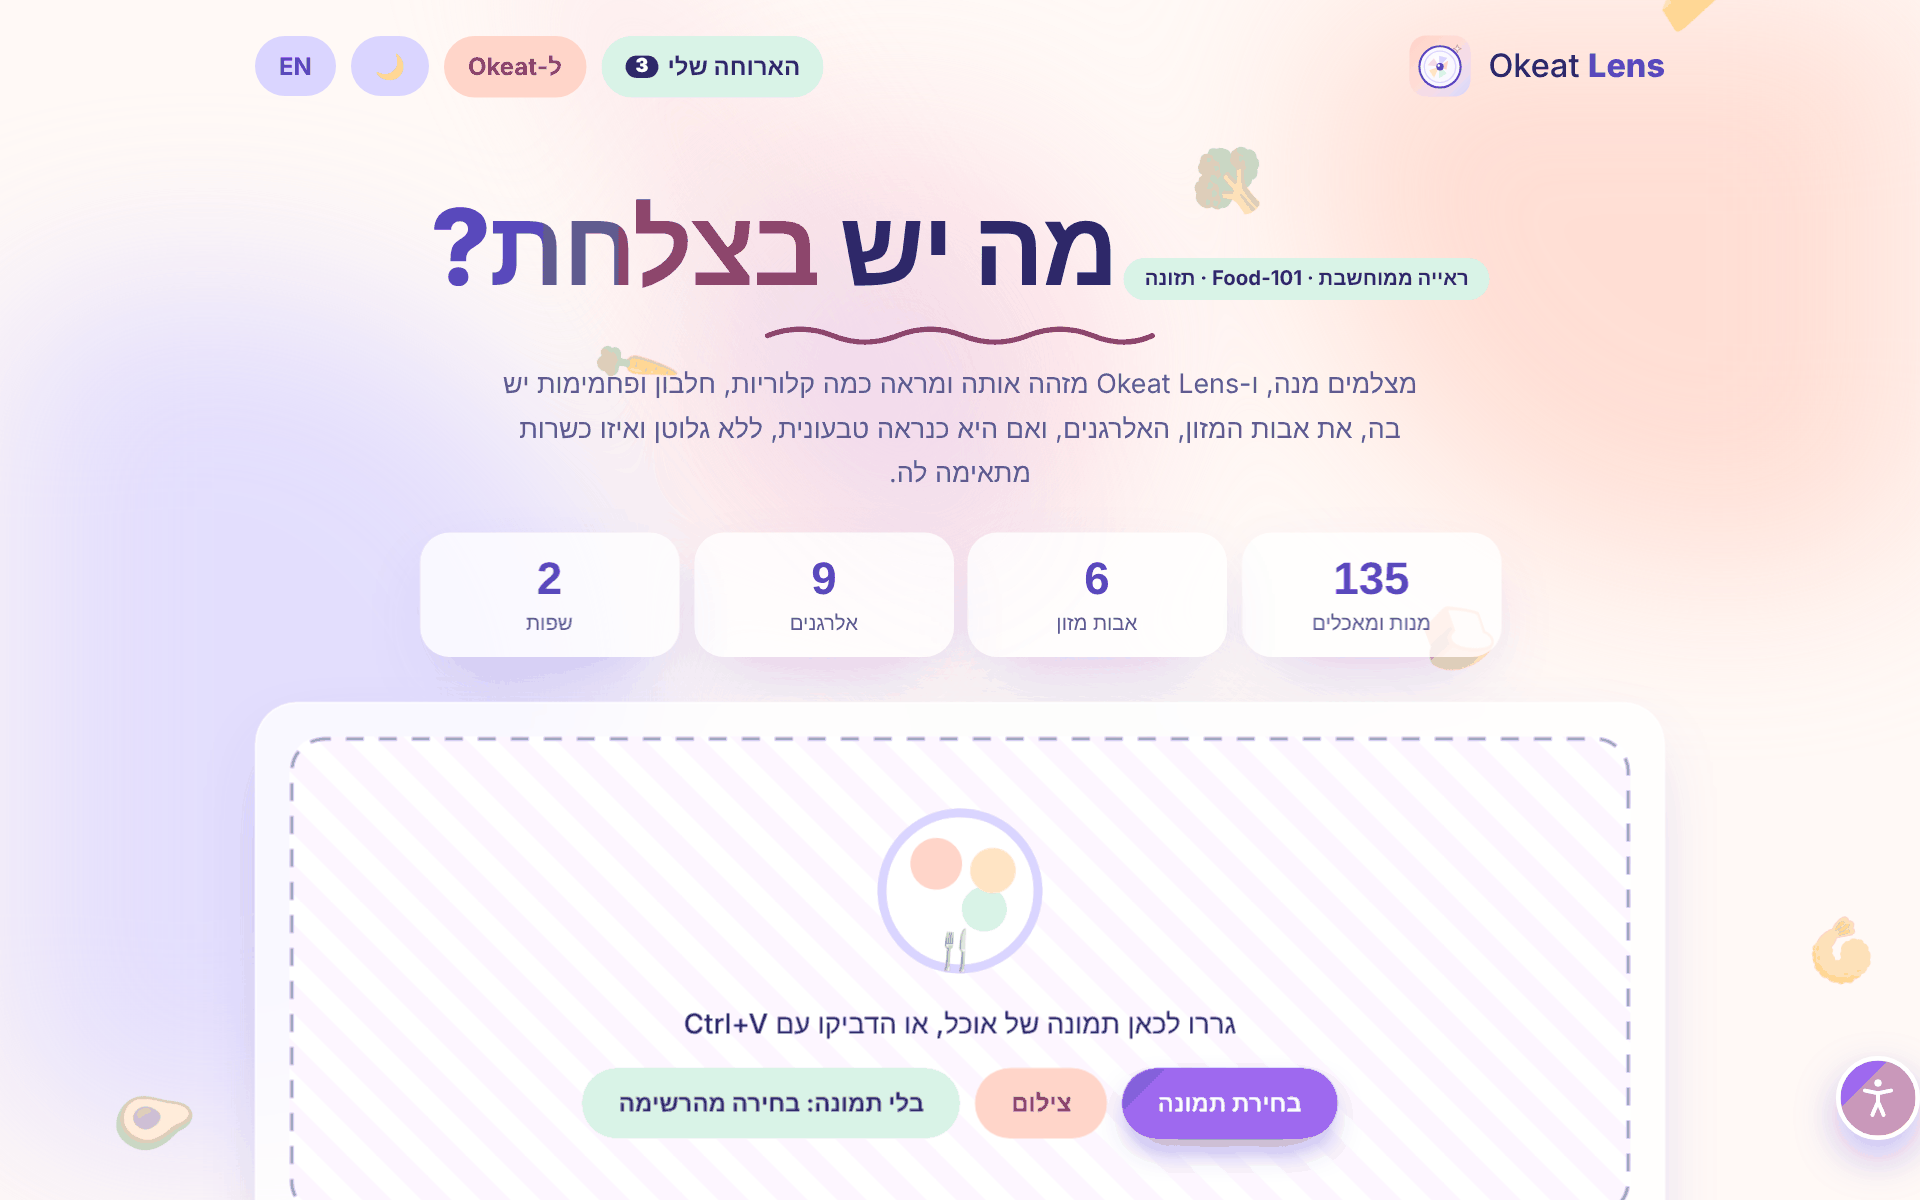
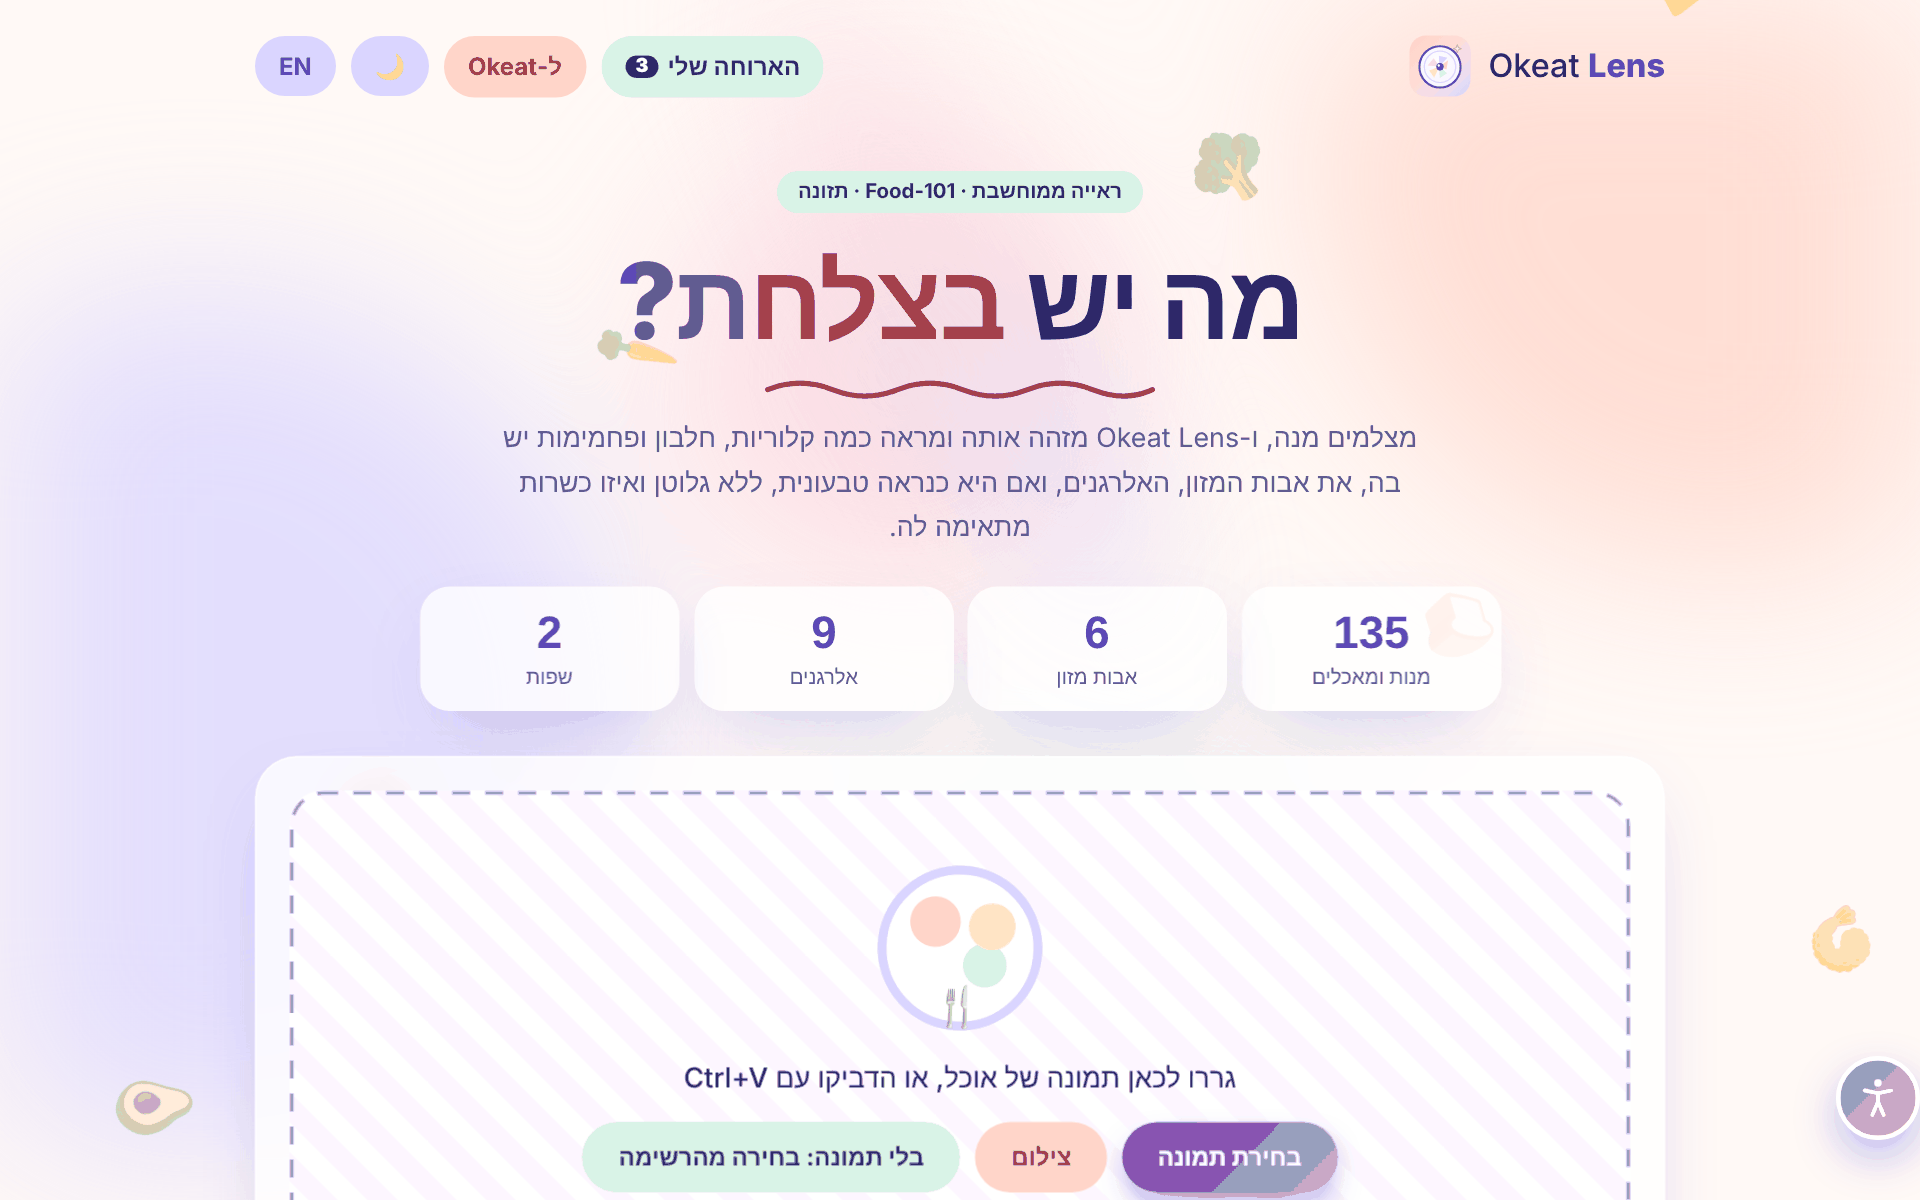
Make every button useful: surprise me, Okeat filters, share meal

diff --git a/app.js b/app.js
@@ -12,7 +12,7 @@ const I18N = {
     lead: "מצלמים מנה, ו-Okeat Lens מזהה אותה ומראה כמה קלוריות, חלבון ופחמימות יש בה, את אבות המזון, האלרגנים, ואם היא כנראה טבעונית, ללא גלוטן ואיזו כשרות מתאימה לה.",
     stDishes: "מנות ומאכלים", stFam: "אבות מזון", stAll: "אלרגנים", stUp: "שפות",
     drop: "גררו לכאן תמונה של אוכל, או הדביקו עם Ctrl+V", pick: "בחירת תמונה", camera: "צילום", browse: "בלי תמונה: בחירה מהרשימה",
-    tryOne: "או נסו דוגמה:", sPizza: "🍕 פיצה", sBurger: "🍔 המבורגר", sIce: "🍨 גלידה", sSushi: "🍣 סושי", recent: "זוהו לאחרונה:",
+    tryOne: "או נסו דוגמה:", sPizza: "🍕 פיצה", sBurger: "🍔 המבורגר", sIce: "🍨 גלידה", sSushi: "🍣 סושי", recent: "זוהו לאחרונה:", surprise: "🎲 תפתיעו אותי", shareMeal: "📤 שיתוף", copied: "הסיכום הועתק ✓", mealTxt: "הארוחה שלי ב-Okeat Lens", allergenQ: "מחפשים מנה בלי אלרגן? בחרו מנה ובדקו את האלרגנים שלה",
     itLooks: "זה נראה כמו", youPicked: "בחרתם", sure: "ביטחון", notThis: "לא זה? בחירת מנה אחרת ✏",
     portion: "כמה אכלתם?", serving: "מנה", gram: "גרם", kcal: "קלוריות",
     protein: "חלבון", carbs: "פחמימות", fat: "שומן", fiber: "סיבים", sugar: "סוכר", sodium_mg: "נתרן",
@@ -44,7 +44,7 @@ const I18N = {
     lead: "Snap a dish and Okeat Lens recognizes it, then shows its calories, protein and carbs, the six nutrient families, allergens, and whether it's likely vegan, gluten-free and which kind of kosher fits it.",
     stDishes: "dishes and foods", stFam: "nutrient families", stAll: "allergens", stUp: "languages",
     drop: "Drop a food photo here, or paste with Ctrl+V", pick: "Choose a photo", camera: "Take a photo", browse: "No photo: pick from the list",
-    tryOne: "or try one:", sPizza: "🍕 Pizza", sBurger: "🍔 Burger", sIce: "🍨 Ice cream", sSushi: "🍣 Sushi", recent: "Recently spotted:",
+    tryOne: "or try one:", sPizza: "🍕 Pizza", sBurger: "🍔 Burger", sIce: "🍨 Ice cream", sSushi: "🍣 Sushi", recent: "Recently spotted:", surprise: "🎲 Surprise me", shareMeal: "📤 Share", copied: "Summary copied ✓", mealTxt: "My meal on Okeat Lens", allergenQ: "Looking for a dish without an allergen? Pick one and check its allergens",
     itLooks: "This looks like", youPicked: "You picked", sure: "sure", notThis: "Not this? Pick another dish ✏",
     portion: "How much did you eat?", serving: "serving", gram: "g", kcal: "calories",
     protein: "Protein", carbs: "Carbs", fat: "Fat", fiber: "Fiber", sugar: "Sugar", sodium_mg: "Sodium",
@@ -252,6 +252,12 @@ function render(items, animate = true) {
 
   renderNutrition(animate);
   renderCompare();
+  const q = new URLSearchParams();
+  if (best.tags.length) q.set("diet", best.tags.join(","));
+  if (best.kosher && best.kosher !== "not_kosher") q.set("kosher", best.kosher);
+  q.set("dish", best.en);
+  $("okeatBtn").href = "https://okeat.vercel.app/map?" + q.toString();
+  $("okeatFilters").textContent = [...best.tags, best.kosher].filter((k) => k && k !== "not_kosher").map((k) => t(k)).join(" · ");
 
   const bars = $("bars");
   bars.innerHTML = "";
@@ -622,6 +628,22 @@ function setup() {
   };
   $("mealJump").onclick = () => $("meal").scrollIntoView({ behavior: "smooth", block: "start" });
   $("clearMeal").onclick = () => { meal = []; renderMeal(); };
+  $("shareMeal").onclick = async () => {
+    const tot = mealTotals();
+    const lines = meal.map((m) => `• ${nm(labels[m.key])} ×${m.p}: ${scale(labels[m.key].nutrition, m.p).kcal} kcal`);
+    const text = `${t("mealTxt")} 🍽\n${lines.join("\n")}\n= ${tot.kcal} kcal · ${t("protein")} ${fmt(tot.protein)} ${t("gram")} · ${t("carbs")} ${fmt(tot.carbs)} ${t("gram")} · ${t("fat")} ${fmt(tot.fat)} ${t("gram")}\n${location.href.split("#")[0]}`;
+    if (navigator.share) { try { await navigator.share({ text }); return; } catch (e) { if (e.name === "AbortError") return; } }
+    try { await navigator.clipboard.writeText(text); toast(t("copied")); } catch { prompt("", text); }
+  };
+  const randomDish = () => { const pool = all.filter((d) => d.key !== current?.key); choose(pool[Math.floor(Math.random() * pool.length)].key); };
+  $("diceBtn").onclick = () => { $("diceBtn").classList.remove("roll"); void $("diceBtn").offsetWidth; $("diceBtn").classList.add("roll"); randomDish(); };
+  document.querySelectorAll(".stats [data-act]").forEach((b) => (b.onclick = () => {
+    const a = b.dataset.act;
+    if (a === "browse") openPicker();
+    else if (a === "random") randomDish();
+    else if (a === "allergen") { toast(t("allergenQ")); openPicker(); }
+    else $("langBtn").click();
+  }));
   $("shareBtn").onclick = shareCard;
   $("pinBtn").onclick = () => {
     if (!current) return;
@@ -649,7 +671,7 @@ function setup() {
   window.revealAll = () => document.querySelectorAll(".rv:not(.in)").forEach((el) => rv.observe(el));
   revealAll();
   if (!reduced && matchMedia("(hover: hover)").matches) {
-    document.querySelectorAll(".upload, .stats div, .fam").forEach((el) => {
+    document.querySelectorAll(".upload, .stats button, .fam").forEach((el) => {
       el.addEventListener("pointermove", (e) => {
         const r = el.getBoundingClientRect(), x = (e.clientX - r.left) / r.width - 0.5, y = (e.clientY - r.top) / r.height - 0.5;
         el.style.setProperty("--rx", (-y * 5).toFixed(2) + "deg");

diff --git a/index.html b/index.html
@@ -37,10 +37,10 @@
       <svg class="squiggle" viewBox="0 0 300 20" aria-hidden="true"><path d="M2 12 Q 27 2 52 12 T 102 12 T 152 12 T 202 12 T 252 12 T 298 12"/></svg>
       <p class="lead" data-i18n="lead">מצלמים מנה, ו-Okeat Lens מזהה אותה ומראה כמה קלוריות, חלבון ופחמימות יש בה, את אבות המזון, האלרגנים, ואם היא כנראה טבעונית, ללא גלוטן ואיזו כשרות מתאימה לה.</p>
       <div class="stats">
-        <div><b data-count="135">0</b><span data-i18n="stDishes">מנות ומאכלים</span></div>
-        <div><b data-count="6">0</b><span data-i18n="stFam">אבות מזון</span></div>
-        <div><b data-count="9">0</b><span data-i18n="stAll">אלרגנים</span></div>
-        <div><b data-count="2">0</b><span data-i18n="stUp">שפות</span></div>
+        <button type="button" data-act="browse"><b data-count="135">0</b><span data-i18n="stDishes">מנות ומאכלים</span></button>
+        <button type="button" data-act="random"><b data-count="6">0</b><span data-i18n="stFam">אבות מזון</span></button>
+        <button type="button" data-act="allergen"><b data-count="9">0</b><span data-i18n="stAll">אלרגנים</span></button>
+        <button type="button" data-act="lang"><b data-count="2">0</b><span data-i18n="stUp">שפות</span></button>
       </div>
     </section>
 
@@ -68,6 +68,7 @@
         <button type="button" class="sample" data-src="https://images.unsplash.com/photo-1568901346375-23c9450c58cd?w=640" data-key="hamburger" data-i18n="sBurger">🍔 המבורגר</button>
         <button type="button" class="sample" data-src="https://images.unsplash.com/photo-1497034825429-c343d7c6a68f?w=640" data-key="ice_cream" data-i18n="sIce">🍨 גלידה</button>
         <button type="button" class="sample" data-src="https://images.unsplash.com/photo-1579871494447-9811cf80d66c?w=640" data-key="sushi" data-i18n="sSushi">🍣 סושי</button>
+        <button type="button" class="sample dice" id="diceBtn" data-i18n="surprise">🎲 תפתיעו אותי</button>
       </div>
       <div class="history" id="history" hidden>
         <span data-i18n="recent">זוהו לאחרונה:</span>
@@ -144,13 +145,13 @@
 
       <h3 class="sec rv" data-ic="🔮" data-i18n="topGuesses">עוד ניחושים</h3>
       <ol class="bars guesses" id="bars"></ol>
-      <a class="btn primary wide" id="okeatBtn" href="https://okeat.vercel.app/map" data-i18n="findOkeat">חיפוש מקומות ב-Okeat 🗺</a>
+      <a class="btn primary wide" id="okeatBtn" href="https://okeat.vercel.app/map" target="_blank" rel="noopener"><span data-i18n="findOkeat">חיפוש מקומות ב-Okeat 🗺</span><small id="okeatFilters"></small></a>
     </section>
 
     <section class="card meal" id="meal" hidden>
       <div class="meal-head">
         <h2 data-i18n="mealH">🍽 הארוחה שלי</h2>
-        <button class="link-btn" id="clearMeal" type="button" data-i18n="clear">ניקוי</button>
+        <div class="meal-btns"><button class="link-btn" id="shareMeal" type="button" data-i18n="shareMeal">📤 שיתוף</button><button class="link-btn" id="clearMeal" type="button" data-i18n="clear">ניקוי</button></div>
       </div>
       <ul class="meal-list" id="mealList"></ul>
       <div class="meal-total">

diff --git a/style.css b/style.css
@@ -297,3 +297,13 @@ html[data-theme="dark"] .preview{background-image:repeating-linear-gradient(45de
 .macros li{transition:transform .2s,box-shadow .2s}.macros li:hover{transform:translateY(-2px);box-shadow:0 10px 22px -14px var(--lav-d)}
 ::selection{background:var(--pink);color:var(--pink-d)}
 @media (prefers-reduced-motion:reduce){.rv{opacity:1;transform:none}.squiggle path{stroke-dashoffset:0}}
+.stats button{font:inherit;color:inherit;border:0;cursor:pointer;background:var(--card);border-radius:20px;padding:14px 8px;box-shadow:var(--shadow);animation:rise .8s both;position:relative;transform:perspective(900px) rotateX(var(--rx,0)) rotateY(var(--ry,0));transition:transform .25s ease-out,box-shadow .3s}
+.stats button:nth-child(2){animation-delay:.08s}.stats button:nth-child(3){animation-delay:.16s}.stats button:nth-child(4){animation-delay:.24s}
+.stats button:hover{box-shadow:0 0 0 3px var(--lav),var(--shadow)}
+.stats button::after{content:"";position:absolute;inset:0;border-radius:inherit;pointer-events:none;background:radial-gradient(400px circle at var(--mx,50%) var(--my,50%),rgba(255,255,255,.45),transparent 45%);opacity:0;transition:opacity .3s}.stats button:hover::after{opacity:1}
+.sample.dice{background:linear-gradient(135deg,var(--peach),var(--pink));color:var(--pink-d)}
+.dice.roll{animation:roll .6s cubic-bezier(.3,1.6,.5,1)}
+@keyframes roll{40%{transform:rotate(-200deg) scale(1.15)}100%{transform:rotate(-360deg)}}
+#okeatBtn{flex-direction:column;gap:2px}#okeatBtn small{font-weight:600;opacity:.85;font-size:.82rem}#okeatBtn small:empty{display:none}
+.meal-btns{display:flex;gap:14px}
+.hero .eyebrow{display:table;margin:0 auto 8px}

diff --git a/README.md b/README.md
@@ -53,7 +53,7 @@
       <ul>
         <li><b>9 allergens</b> per dish, next to the kosher type</li>
         <li><b>My meal</b> adds up dishes, <b>compare</b> two dishes</li>
-        <li><b>Share card</b> image, recent scans, pick a dish by hand</li>
+        <li><b>Share card</b>, share your meal, 🎲 surprise me, pick a dish by hand</li>
       </ul>
     </td>
   </tr>
@@ -79,7 +79,7 @@
         <li><b>Vegan, vegetarian, gluten-free</b> per dish</li>
         <li><b>Kosher type:</b> meat, dairy, parve or likely not kosher</li>
         <li><b>Honest by design:</b> hints are never marked as verified</li>
-        <li><a href="docs/INTEGRATION.md"><b>Plugs into Okeat</b></a> to open the map with the right filters</li>
+        <li><a href="docs/INTEGRATION.md"><b>Plugs into Okeat</b></a>: one tap opens the map with the dish's diet and kosher filters</li>
       </ul>
     </td>
     <td valign="top" width="33%">

diff --git a/README.he.md b/README.he.md
@@ -55,7 +55,7 @@
       <ul>
         <li><b>9 אלרגנים</b> לכל מנה, ליד סוג הכשרות</li>
         <li><b>הארוחה שלי</b> מחברת מנות, <b>השוואה</b> בין שתי מנות</li>
-        <li><b>כרטיס לשיתוף</b>, היסטוריית זיהויים ובחירה ידנית</li>
+        <li><b>כרטיס לשיתוף</b>, שיתוף הארוחה, 🎲 הפתעה ובחירה ידנית</li>
       </ul>
     </td>
   </tr>
